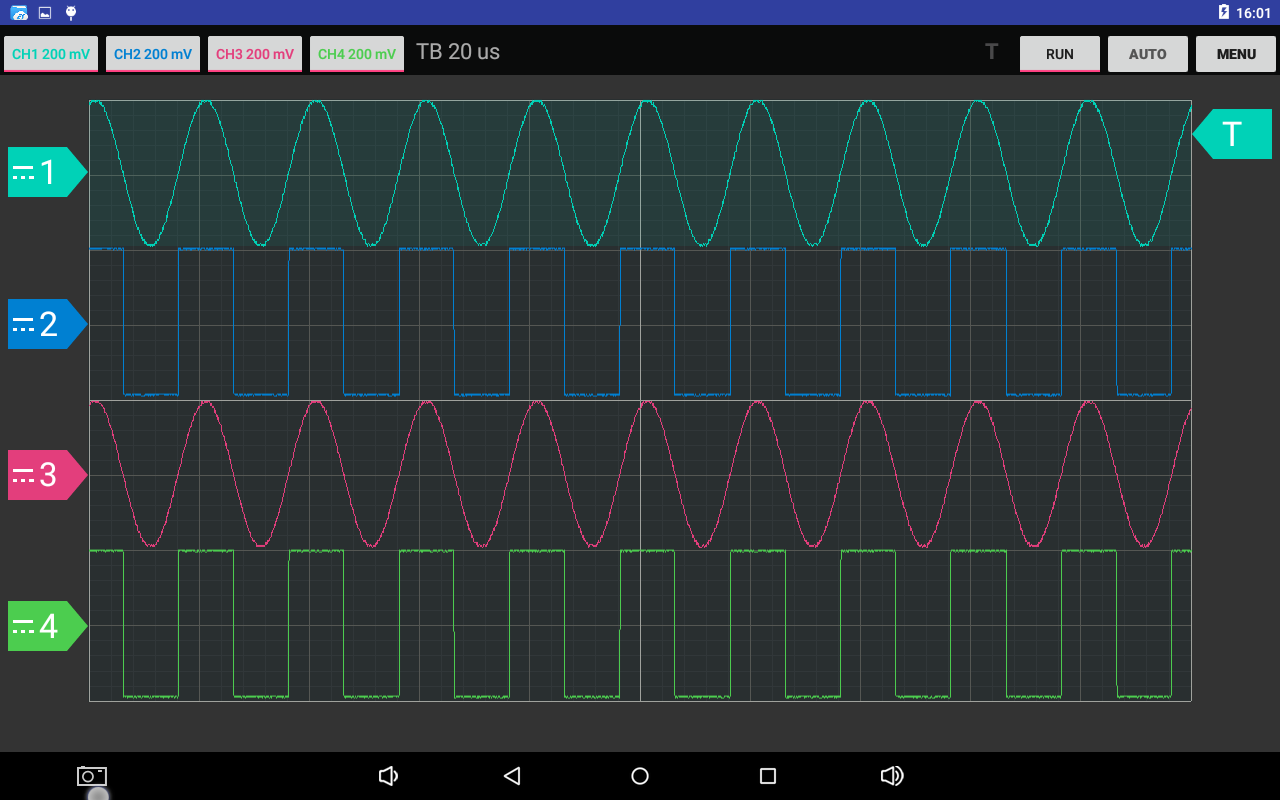
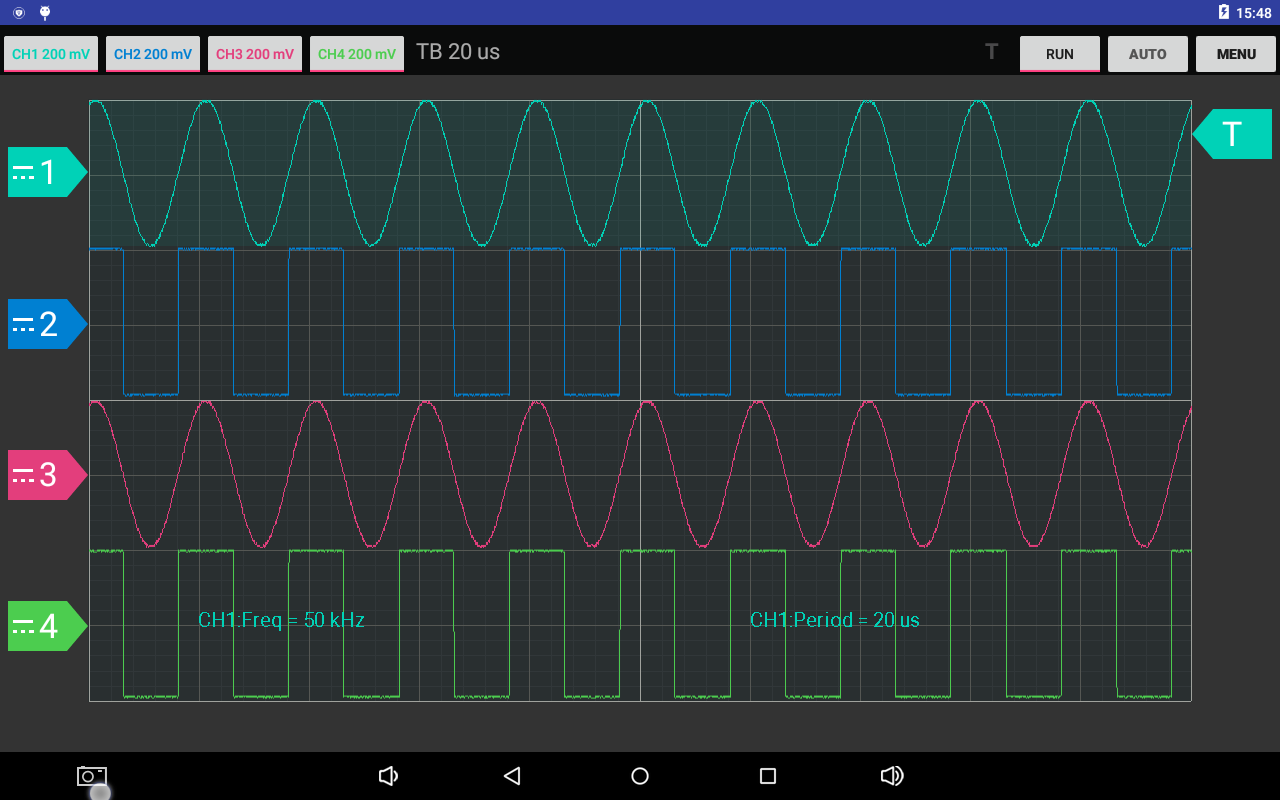
Release 0.5.0

diff --git a/README.md b/README.md
@@ -7,11 +7,8 @@ The Hantek60x4 device have no official Android APP. This is a reverse engineered
 ## Supported Device
 
 - Hantek6074BE
-
 - Hantek6004BC series: Hantek6074BC/Hantek6104BC/Hantek6204BC/Hantek6254BC
 - Hantek6004BD series: Hantek6074BD/Hantek6104BD/Hantek6204BD/Hantek6254BD
-
-
 
 ![hantek6000-screenshot](hantek6000-screenshot.png)
 
@@ -38,17 +35,17 @@ Download the latest release from [release page](https://github.com/hackhantek/ha
 7. ~~Draw coupling indicator on channel zero level marker~~
 8. ~~Atuoset~~
 9. ~~Voltage adjust by gesture~~
-10. Add trigger sweep settings in trigger quick settings
+10. ~~Add trigger sweep settings in trigger quick settings~~
 11. Timebase adjust by gesture
-    1. gesutre
+    1. ~~gesutre~~
     2. dropdown list
-12. change channel zero level by drag channel wave
-13. dropdown list
-14. Automeasure
-15. Cusor Measure
-16. Menu
-17. Factorysetup
-18. Self calibration
+12. ~~Menu~~
+13. ~~Automeasure~~
+14. Factorysetup
+15. Self calibration
+16. Cusor Measure
+17. Record
+18. Change channel zero level by drag channel wave
 
 ## Other
 

diff --git a/CHANGELOG.md b/CHANGELOG.md
@@ -1,5 +1,11 @@
 # CHANGELOG
 
+## [0.5.0] - 2018-9-21
+
+### Added
+
+- Auto measure
+
 ## [0.4.0] -2018-9-5
 
 ### Added
